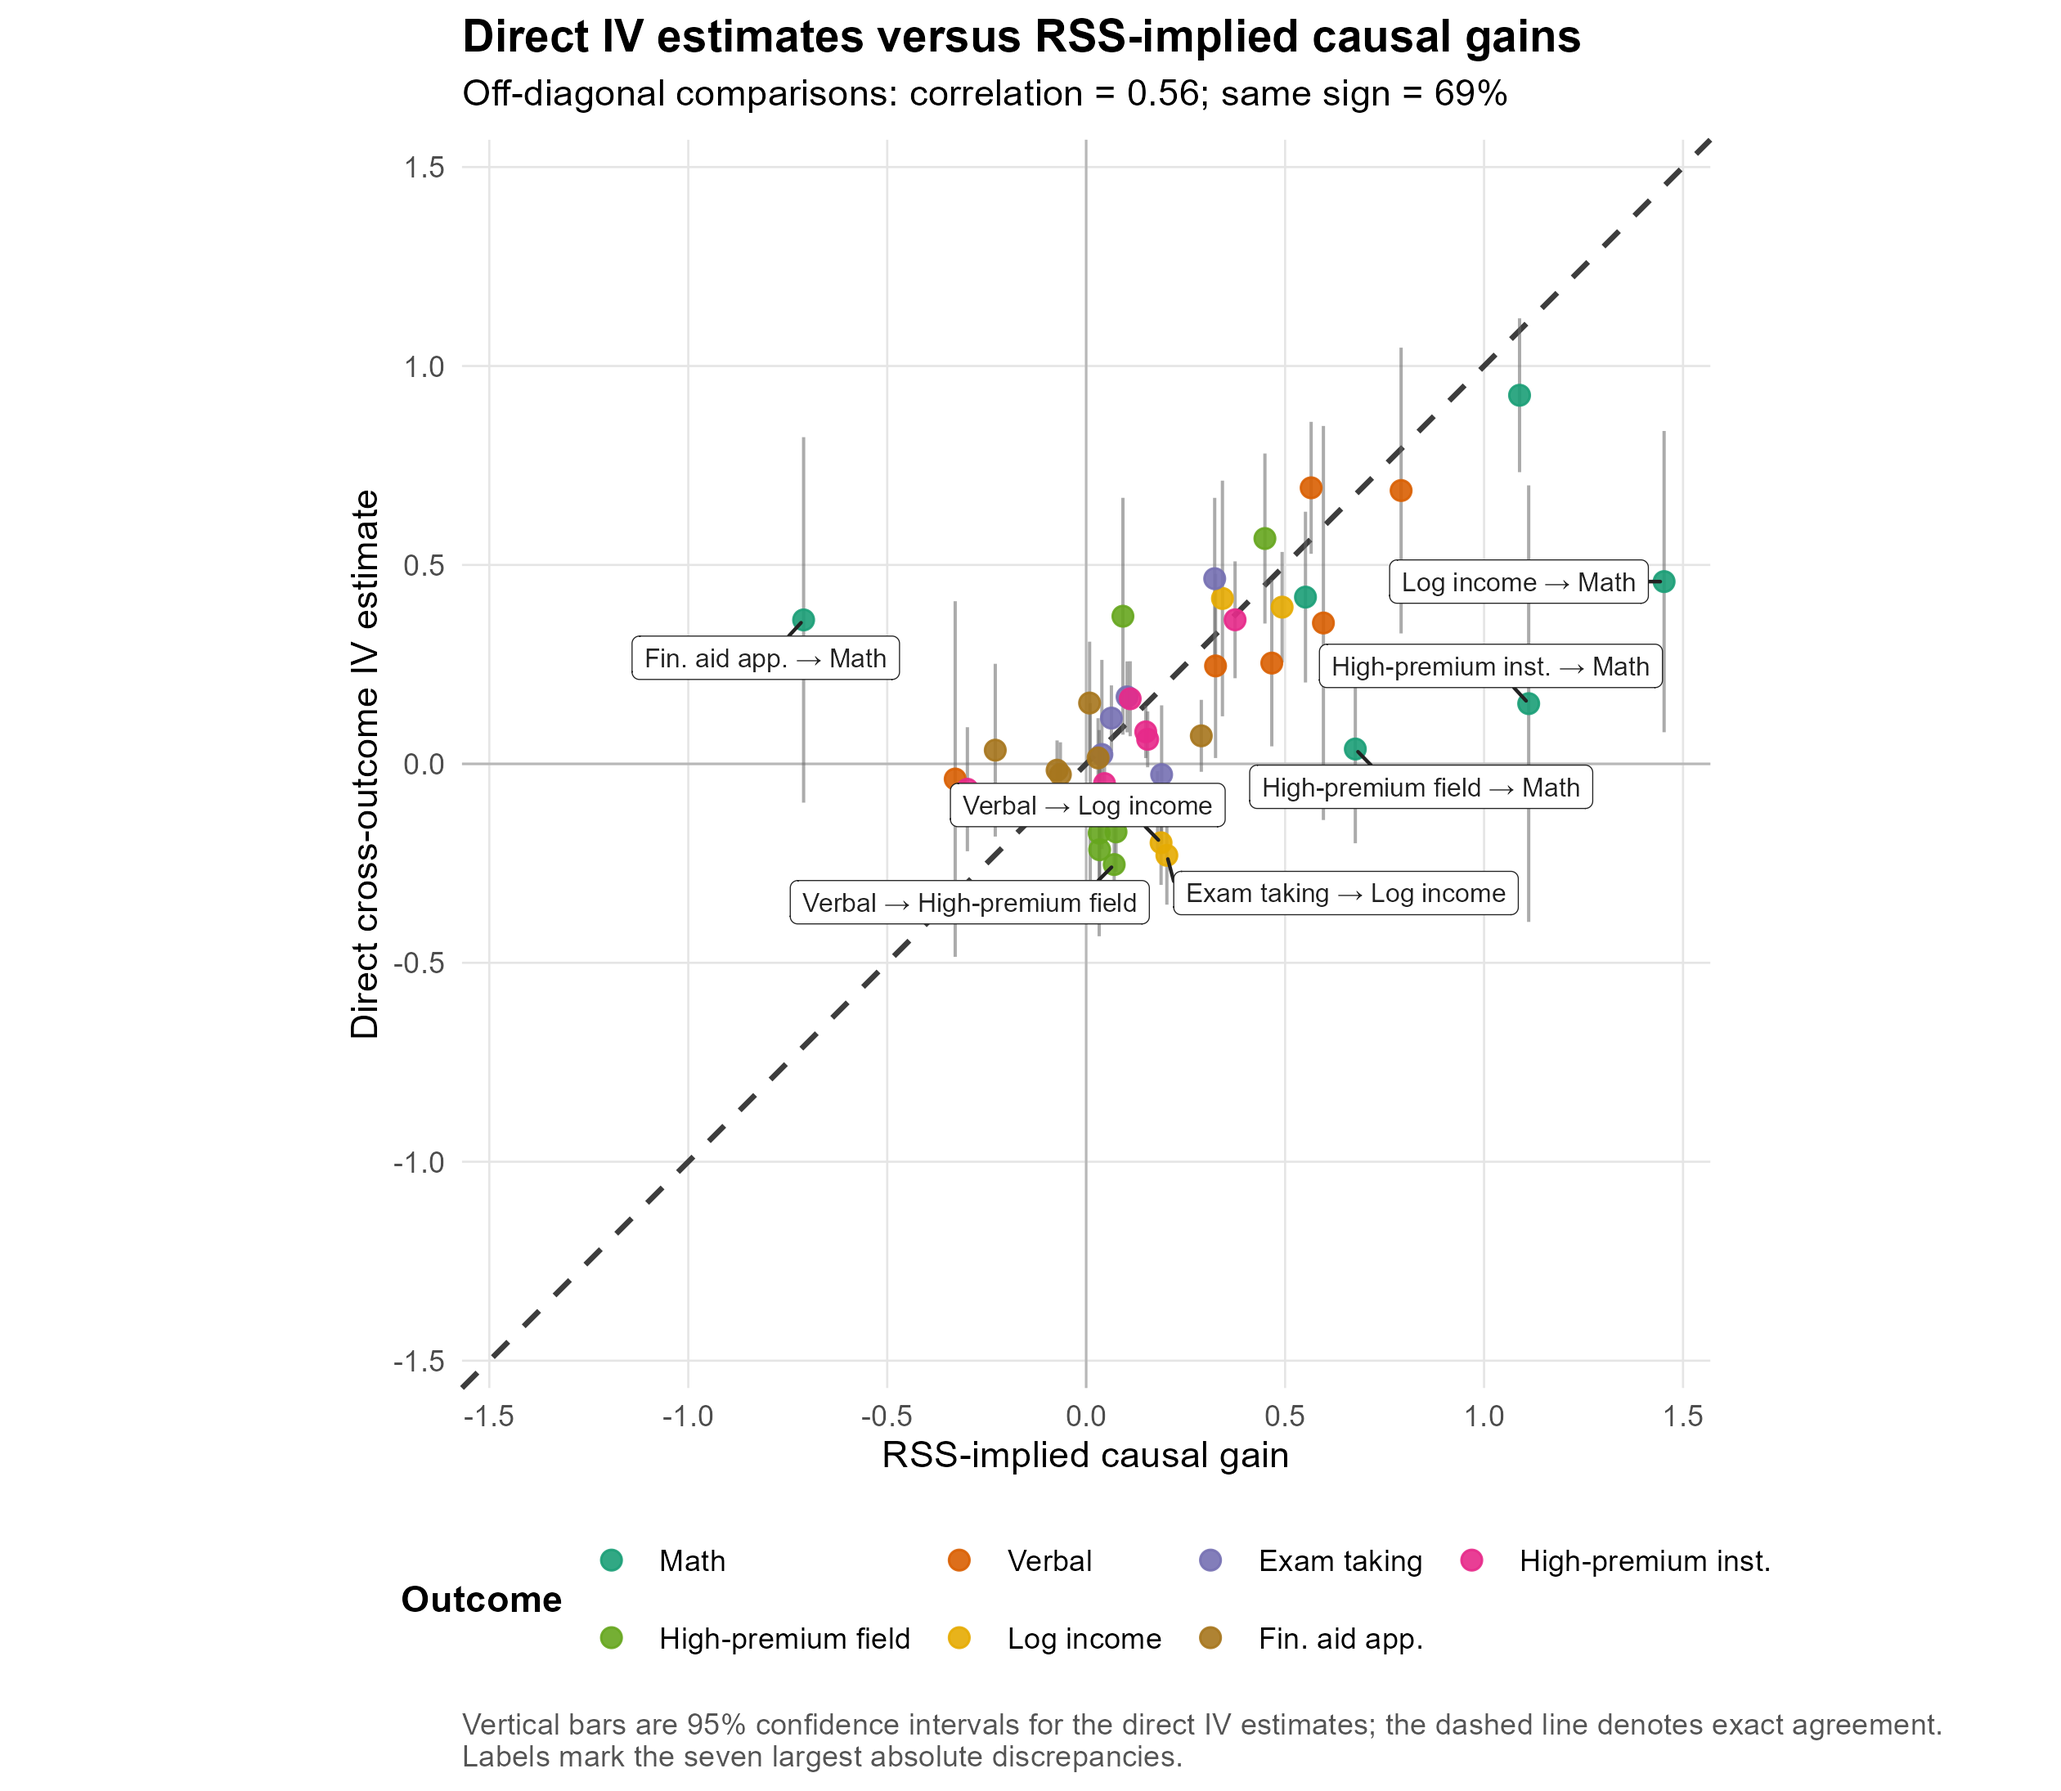
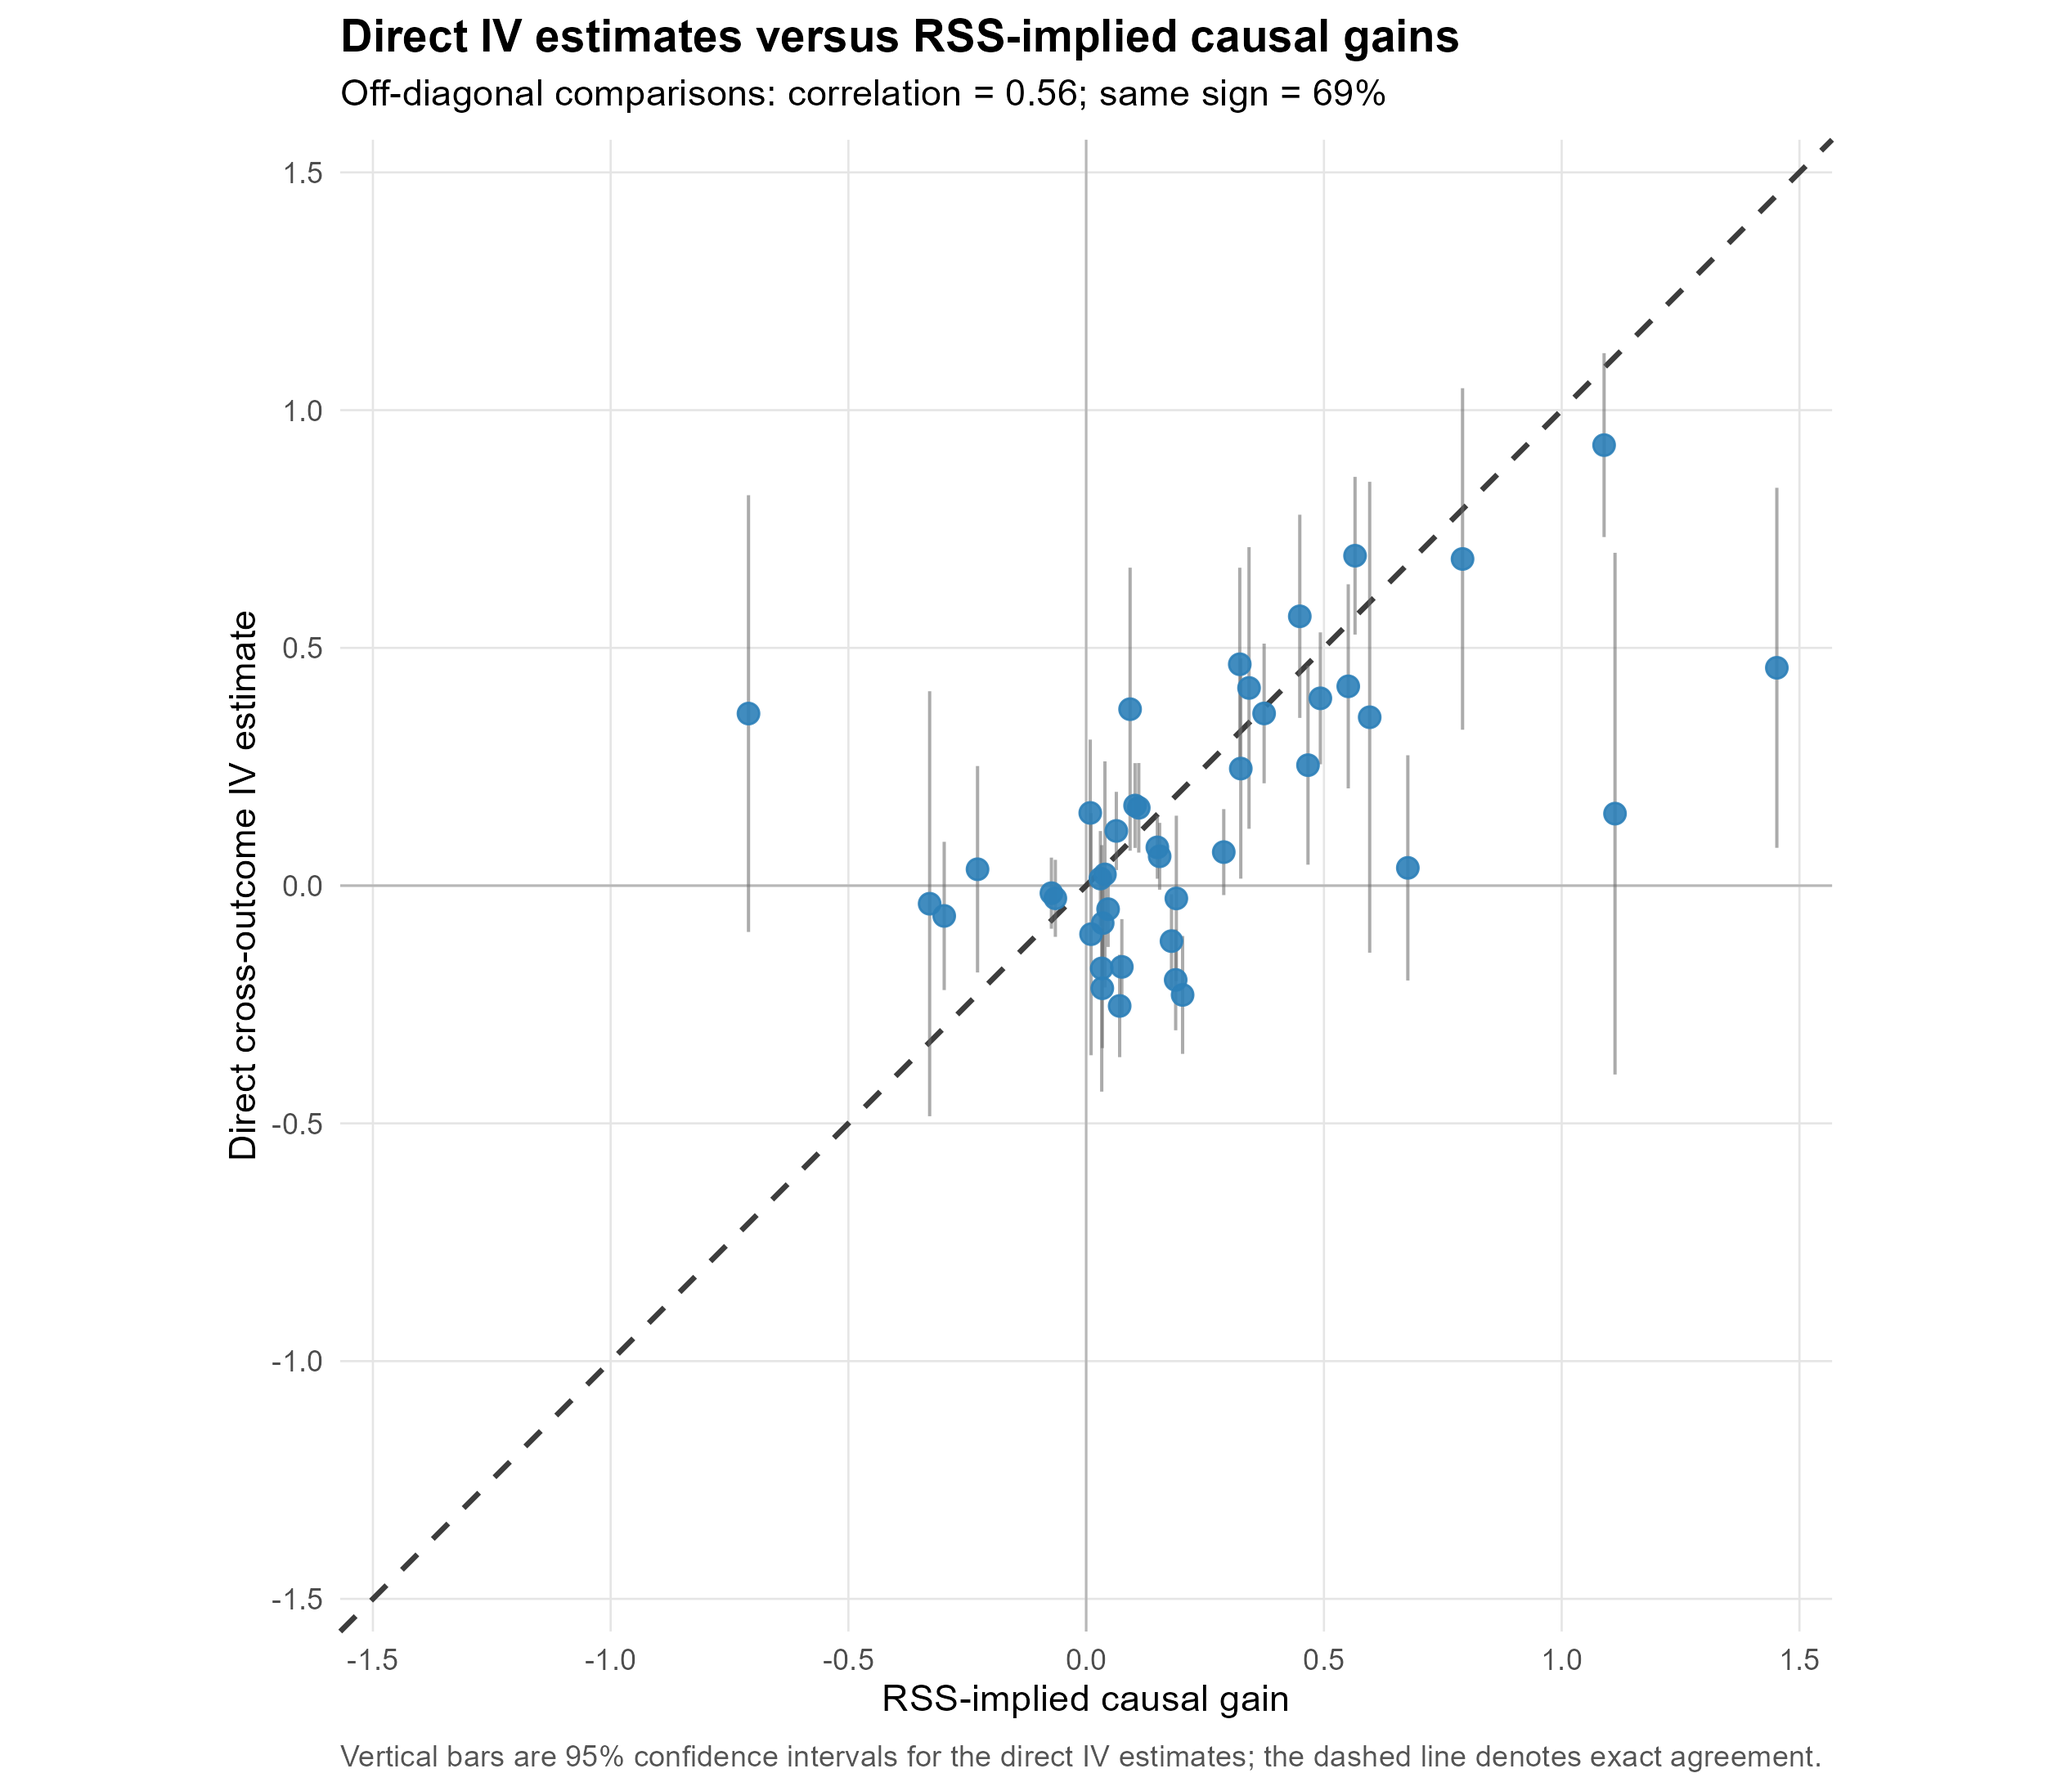
Use conceptual pairs in RSS validation summary [codex]

diff --git a/output/tables/rss_debiased_varcov/unshrunk_cross_outcome_iv_rss_notable_pairs.tex b/output/tables/rss_debiased_varcov/unshrunk_cross_outcome_iv_rss_notable_pairs.tex
@@ -1,37 +1,37 @@
 \begin{table}[!htbp]
 \centering
-\caption{Strongest RSS-implied cross-outcome gains and direct IV validation}
+\caption{Selected cross-outcome relationships and direct IV validation}
 \label{tab:unshrunk-cross-iv-rss-notable-pairs}
 \resizebox{\textwidth}{!}{%
-\begin{tabular}{lcccc}
+\begin{tabular}{llcccc}
 \toprule
-School VA $\rightarrow$ outcome & RSS projection & RSS-implied gain & Direct IV & Direct / implied \\
+Conceptual link & School VA $\rightarrow$ outcome & RSS projection & RSS-implied gain & Direct IV & Direct / implied \\
 \midrule
-Log income $\rightarrow$ Math & 1.27 & 1.45 & 0.46 & 0.32 \\
- & (0.11) &  & (0.19) &  \\
-High-premium inst. $\rightarrow$ Math & 0.97 & 1.11 & 0.15 & 0.14 \\
- & (0.07) &  & (0.28) &  \\
-Verbal $\rightarrow$ Math & 0.95 & 1.09 & 0.93 & 0.85 \\
- & (0.05) &  & (0.10) &  \\
-Log income $\rightarrow$ Verbal & 0.84 & 0.79 & 0.69 & 0.87 \\
- & (0.09) &  & (0.18) &  \\
-Fin. aid app. $\rightarrow$ Math & -0.62 & -0.71 & 0.36 & -0.51 \\
- & (0.07) &  & (0.23) &  \\
-High-premium field $\rightarrow$ Math & 0.59 & 0.68 & 0.04 & 0.06 \\
- & (0.09) &  & (0.12) &  \\
-High-premium inst. $\rightarrow$ Verbal & 0.63 & 0.60 & 0.35 & 0.59 \\
- & (0.05) &  & (0.25) &  \\
-Math $\rightarrow$ Verbal & 0.60 & 0.57 & 0.69 & 1.23 \\
- & (0.02) &  & (0.08) &  \\
-Exam taking $\rightarrow$ Math & 0.48 & 0.55 & 0.42 & 0.76 \\
- & (0.05) &  & (0.11) &  \\
-High-premium field $\rightarrow$ Log income & 0.59 & 0.49 & 0.39 & 0.80 \\
- & (0.04) &  & (0.07) &  \\
+Academic complementarities & Math $\rightarrow$ Verbal & 0.60 & 0.57 & 0.69 & 1.23 \\
+ &  & (0.02) &  & (0.08) &  \\
+Academic complementarities & Verbal $\rightarrow$ Math & 0.95 & 1.09 & 0.93 & 0.85 \\
+ &  & (0.05) &  & (0.10) &  \\
+Academic preparation and access & Math $\rightarrow$ Exam taking & 0.13 & 0.06 & 0.12 & 1.81 \\
+ &  & (0.01) &  & (0.04) &  \\
+Academic preparation and access & Verbal $\rightarrow$ Exam taking & 0.22 & 0.10 & 0.17 & 1.64 \\
+ &  & (0.02) &  & (0.05) &  \\
+Postsecondary complementarities & High-premium inst. $\rightarrow$ High-premium field & 0.13 & 0.09 & 0.37 & 4.02 \\
+ &  & (0.04) &  & (0.15) &  \\
+Postsecondary complementarities & High-premium field $\rightarrow$ High-premium inst. & 0.16 & 0.11 & 0.16 & 1.48 \\
+ &  & (0.04) &  & (0.05) &  \\
+Postsecondary quality and earnings & High-premium inst. $\rightarrow$ Log income & 0.41 & 0.34 & 0.42 & 1.21 \\
+ &  & (0.03) &  & (0.15) &  \\
+Postsecondary quality and earnings & High-premium field $\rightarrow$ Log income & 0.59 & 0.49 & 0.39 & 0.80 \\
+ &  & (0.04) &  & (0.07) &  \\
+Access and financial aid & Exam taking $\rightarrow$ Fin. aid app. & 0.52 & 0.29 & 0.07 & 0.24 \\
+ &  & (0.02) &  & (0.05) &  \\
+Access and financial aid & Fin. aid app. $\rightarrow$ Exam taking & 0.69 & 0.32 & 0.47 & 1.44 \\
+ &  & (0.03) &  & (0.10) &  \\
 \bottomrule
 \end{tabular}}
 \par\medskip
 \footnotesize
 \begin{minipage}{\textwidth}
-Notes: The table reports the ten off-diagonal pairs with the largest absolute RSS-implied causal gains. The RSS projection maps the row value-added measure into the column value-added measure; bootstrap standard errors are in parentheses. The implied gain multiplies that projection by the destination outcome's unshrunk same-outcome IV pass-through. The direct IV column estimates the cross-outcome effect directly, with regression standard errors in parentheses. A direct-to-implied ratio of one denotes exact agreement. Selection uses only the magnitude of the RSS-implied gain.
+Notes: The table reports ten off-diagonal pairs chosen a priori to represent five economically relevant links: academic complementarities, academic preparation and access, postsecondary complementarities, postsecondary quality and earnings, and access and financial aid. The RSS projection maps the row value-added measure into the column value-added measure; bootstrap standard errors are in parentheses. The implied gain multiplies that projection by the destination outcome's unshrunk same-outcome IV pass-through. The direct IV column estimates the cross-outcome effect directly, with regression standard errors in parentheses. A direct-to-implied ratio of one denotes exact agreement. Pair selection does not use the magnitude, sign, or precision of either estimate.
 \end{minipage}
 \end{table}

diff --git a/code/codex/results_section/README.md b/code/codex/results_section/README.md
@@ -27,11 +27,13 @@ from the levels table rather than from the ratio alone.
 
 `14_plot_unshrunk_cross_iv_rss_validation.R` plots the 42 off-diagonal direct
 cross-outcome IV estimates against their RSS-implied causal gains. The dashed
-45-degree line denotes exact agreement, vertical bars show direct-IV 95 percent
-confidence intervals, and labels identify the seven largest absolute gaps.
+45-degree line denotes exact agreement and vertical bars show direct-IV 95
+percent confidence intervals. All estimates use the same point color and the
+figure omits pair labels to keep the visual comparison uncluttered.
 
-`15_format_notable_cross_iv_rss_pairs.R` selects the ten off-diagonal pairs
-with the largest absolute RSS-implied causal gains and reports their RSS
-projections, implied causal gains, direct IV estimates, and validation ratios.
-The selection rule depends only on the RSS prediction, rather than on whether
-the IV comparison is favorable.
+`15_format_notable_cross_iv_rss_pairs.R` reports ten off-diagonal pairs chosen
+a priori to cover five conceptual links: academic complementarities, academic
+preparation and access, postsecondary complementarities, postsecondary quality
+and earnings, and access and financial aid. It reports their RSS projections,
+implied causal gains, direct IV estimates, and validation ratios. Pair selection
+does not use the magnitude, sign, or precision of either estimate.
